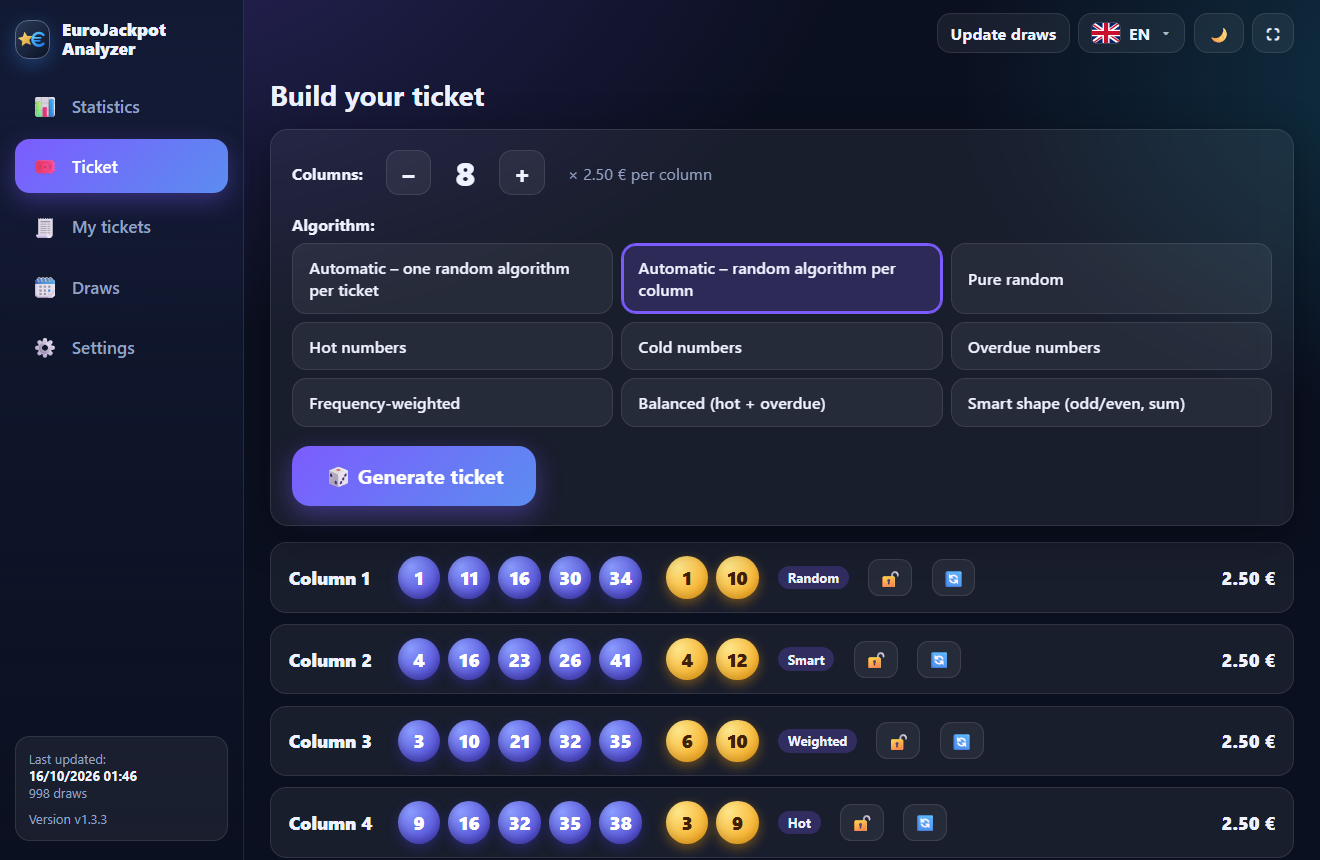
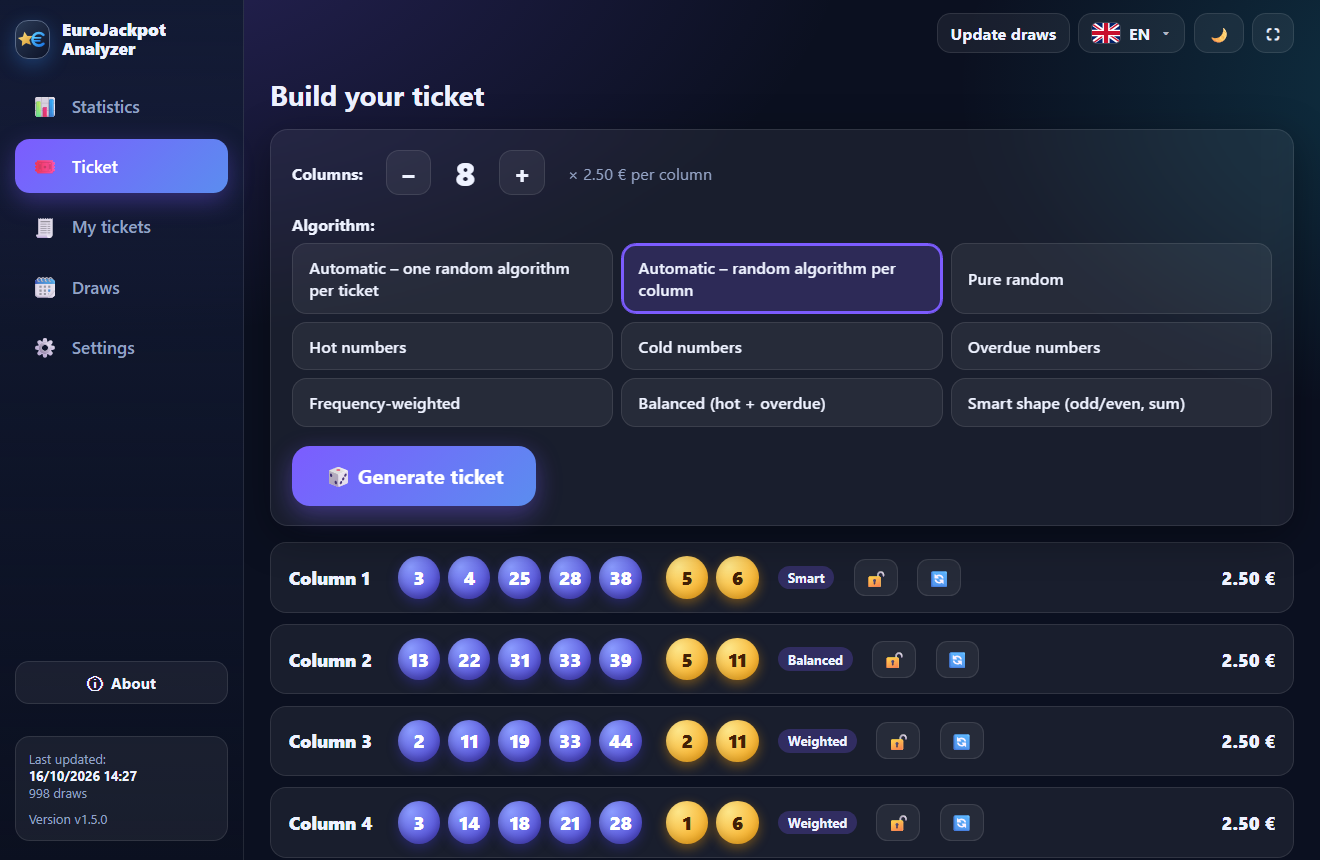
About window, German table '5 + 2' with green rows, screenshots re-taken (v1.5.0)

diff --git a/app/ui/app.js b/app/ui/app.js
@@ -290,8 +290,7 @@ async function runDiagnostics(box) {
 /* ---------- draw details (winners / prizes) ---------- */
 const nf = n => (n ?? 0).toLocaleString(loc());
 const ROMAN = ["I", "II", "III", "IV", "V", "VI", "VII", "VIII", "IX", "X", "XI", "XII"];
-const matchText = tier => { const [m, e] = tier.split("+").map(Number);
-  return [tr(m === 1 ? "detail.m1" : "detail.mN", { m }), e ? tr(e === 1 ? "detail.e1" : "detail.eN", { e }) : ""].filter(Boolean).join(" + "); };
+const matchText = tier => tier.replace("+", " + ");           // "5 + 2", like in the Greek layout
 function whereHtml(cls) {
   const lang = S.settings.lang, byA3 = Object.fromEntries(S.cat.countries.map(c => [c.alpha3, c]));
   const blocks = cls.map((c, i) => c.where && c.where.length ? { c, i } : null).filter(Boolean).map(({ c, i }) => {
@@ -313,7 +312,7 @@ async function openDraw(dateStr) {
   const kpi = (l, v) => v != null ? `<div class="kpi"><span class="muted small">${l}</span><b>${v}</b></div>` : "";
   let table = "";
   if (det && official) {         // as on the official eurojackpot.com page: class, match, winners, prize
-    const rows = cls.filter(x => !x.greek_only).map((x, i) => `<tr><td><b>${ROMAN[i]}</b></td><td>${esc(matchText(x.tier))}</td>
+    const rows = cls.filter(x => !x.greek_only).map((x, i) => `<tr class="${x.winners > 0 ? "gr-win" : ""}"><td><b>${ROMAN[i]}</b></td><td>${esc(matchText(x.tier))}</td>
       <td class="num">${x.winners ? nf(x.winners) + " ×" : `<span class="muted">${tr("detail.no_winner")}</span>`}</td>
       <td class="num">${x.prize > 0 ? money(x.prize) : `<span class="muted">—</span>`}</td></tr>`).join("");
     table = `<table><thead><tr><th>${tr("detail.class")}</th><th>${tr("detail.match")}</th><th class="num">${tr("detail.winners")}</th><th class="num">${tr("detail.prize")}</th></tr></thead><tbody>${rows}</tbody></table>`;
@@ -665,6 +664,27 @@ async function installApp(btn) {
   }, 400);
 }
 
+/* ---------- About: guide, sources, credits, links ---------- */
+const REPO_URL = "https://github.com/VeZReVouLiS/EuroJackpot-Analyzer";
+function openAbout() {
+  const lines = k => tr(k).split("\n").filter(Boolean);
+  const guide = lines("about.guide").map(l => { const [t, d] = l.split("|"); return `<li><b>${esc(t)}:</b> ${esc(d || "")}</li>`; }).join("");
+  const li = k => lines(k).map(l => `<li>${esc(l)}</li>`).join("");
+  const link = (url, label) => `<a href="${url}" data-ext="${url}">${esc(label)}</a>`;
+  $("#about-body").innerHTML = `
+    <div class="about-head"><div class="logo about-logo"><img src="logo.svg" alt=""></div>
+      <div><h2>${tr("app.title")}</h2><div class="muted">${tr("side.version")} v${esc(S.info.version)}</div></div></div>
+    <h3>${tr("about.howto")}</h3><ul class="about-list">${guide}</ul>
+    <h3>${tr("about.sources")}</h3><ul class="about-list">${li("about.sources.text")}</ul>
+    <h3>${tr("about.credits")}</h3><ul class="about-list">${li("about.credits.text")}</ul>
+    <h3>${tr("about.links")}</h3>
+    <div class="about-links">${link(REPO_URL, "🔗 " + tr("about.repo"))}${link(REPO_URL + "/releases", "⬇ " + tr("about.releases"))}</div>
+    <div class="note">${tr("about.disclaimer")}</div>`;
+  $$("[data-ext]", $("#about-body")).forEach(a => a.onclick = e => { e.preventDefault(); call("open_url", a.dataset.ext).catch(() => window.open(a.dataset.ext, "_blank")); });
+  $("#about").classList.remove("hidden");
+}
+const closeAbout = () => $("#about").classList.add("hidden");
+
 /* ---------- iPhone: how to install the web app ---------- */
 function installTip() {
   const ios = /iphone|ipad|ipod/i.test(navigator.userAgent) || (navigator.platform === "MacIntel" && navigator.maxTouchPoints > 1);
@@ -701,8 +721,10 @@ async function boot() {
   $("#btn-update").onclick = () => runUpdate();
   $("#ov-btn").onclick = () => runUpdate({ firstRun: true });
   $("#detail-close").onclick = closeDetail;
+  $("#btn-about").onclick = openAbout; $("#btn-about-top").onclick = openAbout; $("#about-close").onclick = closeAbout;
+  $("#about").addEventListener("click", e => { if (e.target.id === "about") closeAbout(); });
   $("#detail").addEventListener("click", e => { if (e.target.id === "detail") closeDetail(); });
-  window.addEventListener("keydown", e => { if (e.key === "F11") { e.preventDefault(); $("#btn-full").click(); } if (e.key === "Escape") closeDetail(); });
+  window.addEventListener("keydown", e => { if (e.key === "F11") { e.preventDefault(); $("#btn-full").click(); } if (e.key === "Escape") { closeDetail(); closeAbout(); } });
   window.addEventListener("resize", () => S.charts.forEach(c => c.resize()));
   if (S.settings.check_app_updates && S.info.repo_configured) {     // quiet background check, shows a badge only
     call("check_app_update").then(r => { S.appUpdate = r; updateBadge(); }).catch(() => {});
@@ -725,6 +747,7 @@ async function boot() {
     await renderAll();
     if (hp.get("gen")) { await setSetting("columns", +hp.get("gen")); await setSetting("algo", "auto_column"); await renderTicket(); await generate(); }
     if (hp.get("draw")) await openDraw(hp.get("draw"));
+    if (hp.get("about")) openAbout();
     if (hp.get("menu")) { const b = $("#" + hp.get("menu") + " .dd-btn"); if (b) b.click(); }       // docs: show an open dropdown
     if (S.settings.auto_update && !hp.toString()) runUpdate();
   }

diff --git a/app/ui/styles.css b/app/ui/styles.css
@@ -40,7 +40,7 @@ button { font: inherit; color: inherit; cursor: pointer; }
 .nav-btn:hover { background: var(--card); color: var(--text); }
 .nav-btn.active { background: linear-gradient(135deg, var(--accent), #5b8def); color: #fff; box-shadow: 0 8px 24px rgba(124,92,255,.35); }
 .ico { font-size: 1.25rem; }
-.side-foot { margin-top: auto; padding: .8rem; border-radius: .9rem; background: var(--card); border: 1px solid var(--card-b); }
+.side-foot { margin-top: 0; padding: .8rem; border-radius: .9rem; background: var(--card); border: 1px solid var(--card-b); }
 
 #main { display: flex; flex-direction: column; min-width: 0; height: 100vh; }
 #topbar { display: flex; align-items: center; justify-content: space-between; gap: 1rem; padding: .8rem 1.6rem; }
@@ -321,3 +321,20 @@ button, .chip, .algo { touch-action: manipulation; }
   .detail-box td:first-child { white-space: nowrap; }
   .detail-box .tag-gr { display: block; margin: .15rem 0 0; font-size: .6rem; width: fit-content; }
 }
+
+/* About window and its button */
+.about-btn { width: 100%; margin-top: auto; padding: .6rem .8rem; display: flex; align-items: center; justify-content: center; gap: .5rem; font-size: .95rem; }
+#sidebar .about-btn + .side-foot { margin-top: .8rem; }
+.about-top { display: none; }
+.about-head { display: flex; align-items: center; gap: 1rem; margin-bottom: .6rem; padding-right: 3rem; }
+.about-head h2 { margin: 0; } .about-logo { width: 3.6rem; height: 3.6rem; }
+.about-logo img { width: 84%; }
+#about-body h3 { margin: 1.2rem 0 .4rem; }
+.about-list { margin: 0; padding-left: 1.2rem; display: flex; flex-direction: column; gap: .35rem; line-height: 1.4; }
+.about-links { display: flex; flex-wrap: wrap; gap: .6rem; }
+.about-links a { padding: .55rem 1rem; border-radius: .8rem; border: 1px solid var(--card-b); background: var(--card); color: var(--text); font-weight: 700; text-decoration: none; }
+.about-links a:hover { background: var(--card-b); }
+@media (max-width: 1000px) { .about-btn span:last-child { display: none; } .about-btn { padding: .6rem 0; } }
+@media (max-width: 760px) { #sidebar .about-btn { display: none; } .about-top { display: inline-block; } .about-head { padding-right: 2.4rem; } }
+
+#about-body { width: 100%; text-align: left; }

diff --git a/app/ui/index.html b/app/ui/index.html
@@ -18,6 +18,7 @@
       <button data-view="history" class="nav-btn"><span class="ico">🗓</span><span data-i18n="nav.history"></span></button>
       <button data-view="settings" class="nav-btn"><span class="ico">⚙</span><span data-i18n="nav.settings"></span></button>
     </nav>
+    <button id="btn-about" class="btn about-btn"><span>ⓘ</span> <span data-i18n="about.btn"></span></button>
     <div class="side-foot">
       <div class="muted small"><span data-i18n="top.updated"></span>:</div>
       <div id="last-update" class="small strong">—</div>
@@ -32,6 +33,7 @@
       <div id="status" class="status"></div>
       <div class="top-actions">
         <button id="btn-update" class="btn ghost" data-i18n="top.update"></button>
+        <button id="btn-about-top" class="btn ghost about-top" aria-label="About">ⓘ</button>
         <div id="lang-dd"></div>
         <button id="btn-theme" class="btn ghost" title="Theme">🌙</button>
         <button id="btn-full" class="btn ghost" title="Full screen">⛶</button>
@@ -61,6 +63,10 @@
 </div>
 
 <div id="splash" class="splash hidden"></div>
+<div id="about" class="overlay hidden">
+  <div class="modal card detail-box"><button id="about-close" class="btn ghost close-x" aria-label="close">✕</button><div id="about-body"></div></div>
+</div>
+
 <div id="toast" class="toast hidden"></div>
 <script src="vendor/chart.umd.min.js"></script>
 <script src="app.js"></script>

diff --git a/app/version.py b/app/version.py
@@ -1,7 +1,7 @@
 import os
 
 # EJP_VERSION_OVERRIDE: testing/docs only (e.g. pretend to be an older version to see the update screen)
-__version__ = os.environ.get("EJP_VERSION_OVERRIDE") or "1.4.0"
+__version__ = os.environ.get("EJP_VERSION_OVERRIDE") or "1.5.0"
 APP_NAME = "EuroJackpot Analyzer"
 # GitHub "owner/name" used for update checks (GitHub Releases). Empty = update check disabled.
 GITHUB_REPO = "VeZReVouLiS/EuroJackpot-Analyzer"

diff --git a/app/api.py b/app/api.py
@@ -379,7 +379,7 @@ class Api:
         """Open a GitHub page in the default browser (only github.com links)."""
         import webbrowser
 
-        if not url.startswith("https://github.com/"):
+        if not url.startswith(("https://github.com/", "https://vezrevoulis.github.io/")):
             return False
         return webbrowser.open(url)
 

diff --git a/README.md b/README.md
@@ -74,7 +74,7 @@
 - Η κατηγορία **1 + 1** ισχύει μόνο στην Ελλάδα.
 - Οι πηγές δεν δίνουν ανάλυση ανά χώρα για όλες τις κατηγορίες, μόνο σύνολο όλων των χωρών και Ελλάδα.
 
-**Με χώρα Γερμανία** η κλήρωση εμφανίζεται όπως στο επίσημο eurojackpot.com: *Κατηγορία* (I–XII), *Επιτυχίες* (π.χ. «5 αριθμοί + 2 Euro αριθμοί»), *Νικητές* (π.χ. «7 ×») και *Κέρδος ανά νικητή*, μαζί με τον συνολικό τζίρο και τα πεδία. Κάτω από τον πίνακα η ενότητα **«Πού κερδήθηκε»** δείχνει σε ποια χώρα (και, για τη Γερμανία, σε ποιο κρατίδιο) βρέθηκαν οι νικητές. Η επίσημη πηγή δίνει αυτή την πληροφορία **μόνο για τις 3 πρώτες κατηγορίες**.
+**Με χώρα Γερμανία** η κλήρωση εμφανίζεται όπως στο επίσημο eurojackpot.com: *Κατηγορία* (I–XII), *Επιτυχίες* (π.χ. «5 + 2»), *Νικητές* (π.χ. «7 ×») και *Κέρδος ανά νικητή*, μαζί με τον συνολικό τζίρο και τα πεδία. Οι κατηγορίες που κερδήθηκαν έχουν πράσινο φόντο, όπως στην ελληνική προβολή. Κάτω από τον πίνακα η ενότητα **«Πού κερδήθηκε»** δείχνει σε ποια χώρα (και, για τη Γερμανία, σε ποιο κρατίδιο) βρέθηκαν οι νικητές. Η επίσημη πηγή δίνει αυτή την πληροφορία **μόνο για τις 3 πρώτες κατηγορίες**.
 
 ![Κλήρωση με προβολή Γερμανίας](docs/images/10-draw-details-de.png)
 
@@ -134,7 +134,12 @@
 - **Λευκό παράθυρο ή δεν ανοίγει**: εγκατάστησε το *Microsoft Edge WebView2 Runtime* από τη Microsoft. Αν δεν βοηθήσει, τρέξε το `EuroJackpotApp.exe --browser`.
 - Απαιτήσεις: Windows 10 (1803+) ή 11, με Microsoft Edge.
 
-### 10. iPhone, iPad και Android
+### 10. Σχετικά: οδηγίες, πηγές και credits
+Το κουμπί **ⓘ Σχετικά** (πάνω από το πλαίσιο «Τελευταία ενημέρωση», στο κινητό πάνω δεξιά) ανοίγει σύντομες οδηγίες χρήσης, τις πηγές δεδομένων, τα credits και συνδέσμους προς τη σελίδα του έργου και τις νέες εκδόσεις στο GitHub.
+
+![Σχετικά](docs/images/12-about.png)
+
+### 11. iPhone, iPad και Android
 Η ίδια εφαρμογή δουλεύει και στο κινητό, χωρίς λογαριασμό: στατιστικά, γεννήτρια, ιστορικό δελτίων με αυτόματο έλεγχο κερδών, επόμενη κλήρωση με αντίστροφη μέτρηση, χώρα και γλώσσα (Ελληνικά / English / Deutsch).
 
 ![Η εφαρμογή σε iPhone](docs/images/phone-iphone.png)

diff --git a/README.en.md b/README.en.md
@@ -73,7 +73,7 @@ In the **Draws** menu you first see the **“Next draw”** box with the date an
 - The **1 + 1** class exists only in Greece.
 - For the other classes the sources only give the total of all countries and Greece.
 
-**With Germany as your country** the draw is shown like on the official eurojackpot.com: *Class* (I–XII), *Match* (e.g. “5 numbers + 2 Euro numbers”), *Winners* (e.g. “7 ×”) and *Prize per winner*, plus the total sales and fields. Below the table, **“Where the winners are”** shows in which country (and, for Germany, in which federal state) the winners were found. The official source gives this information **for the top 3 classes only**.
+**With Germany as your country** the draw is shown like on the official eurojackpot.com: *Class* (I–XII), *Match* (e.g. “5 + 2”), *Winners* (e.g. “7 ×”) and *Prize per winner*, plus the total sales and fields. Classes that were won have a green background, as in the Greek layout. Below the table, **“Where the winners are”** shows in which country (and, for Germany, in which federal state) the winners were found. The official source gives this information **for the top 3 classes only**.
 
 ![Draw with the German layout](docs/images/10-draw-details-de-en.png)
 
@@ -133,7 +133,12 @@ Typical causes of a `403 Forbidden` error: a VPN, a corporate network/proxy or a
 - **White window or nothing opens**: install the *Microsoft Edge WebView2 Runtime* from Microsoft. If that does not help, run `EuroJackpotApp.exe --browser`.
 - Requirements: Windows 10 (1803+) or 11, with Microsoft Edge.
 
-### 10. iPhone, iPad and Android
+### 10. About: guide, sources and credits
+The **ⓘ About** button (above the “Last updated” box, top right on a phone) opens a short user guide, the data sources, the credits and links to the project page and the new versions on GitHub.
+
+![About](docs/images/12-about-en.png)
+
+### 11. iPhone, iPad and Android
 The same app also works on your phone, with no account: statistics, ticket generator, ticket history with automatic prize check, next draw with countdown, country and language (Greek / English / German).
 
 ![The app on an iPhone](docs/images/phone-iphone-en.png)

diff --git a/CHANGELOG.md b/CHANGELOG.md
@@ -1,5 +1,10 @@
 # Changelog
 
+## 1.5.0
+- Νέο κουμπί **Σχετικά**: οδηγίες χρήσης, πηγές δεδομένων, credits και σύνδεσμοι προς το GitHub (σε ελληνικά, αγγλικά και γερμανικά).
+- Προβολή Γερμανίας: οι επιτυχίες γράφονται «5 + 2» και οι κατηγορίες που κερδήθηκαν έχουν πράσινο φόντο, όπως στην ελληνική προβολή.
+- Bug fixes / μικρές διορθώσεις
+
 ## 1.4.0
 - Εφαρμογή για **iPhone / iPad** (web app: Safari → «Προσθήκη στην οθόνη Αφετηρίας», δουλεύει και offline) και για **Android** (APK στη σελίδα Releases). Ίδιες λειτουργίες με τον υπολογιστή: στατιστικά, γεννήτρια δελτίων, ιστορικό δελτίων με αυτόματο έλεγχο κερδών, χώρα/γλώσσα, επόμενη κλήρωση με αντίστροφη μέτρηση.
 - Νέα διάταξη για κινητά (κάτω μενού, μία στήλη). Αντίγραφο ασφαλείας στα Αρχεία / iCloud Drive / Google Drive.
